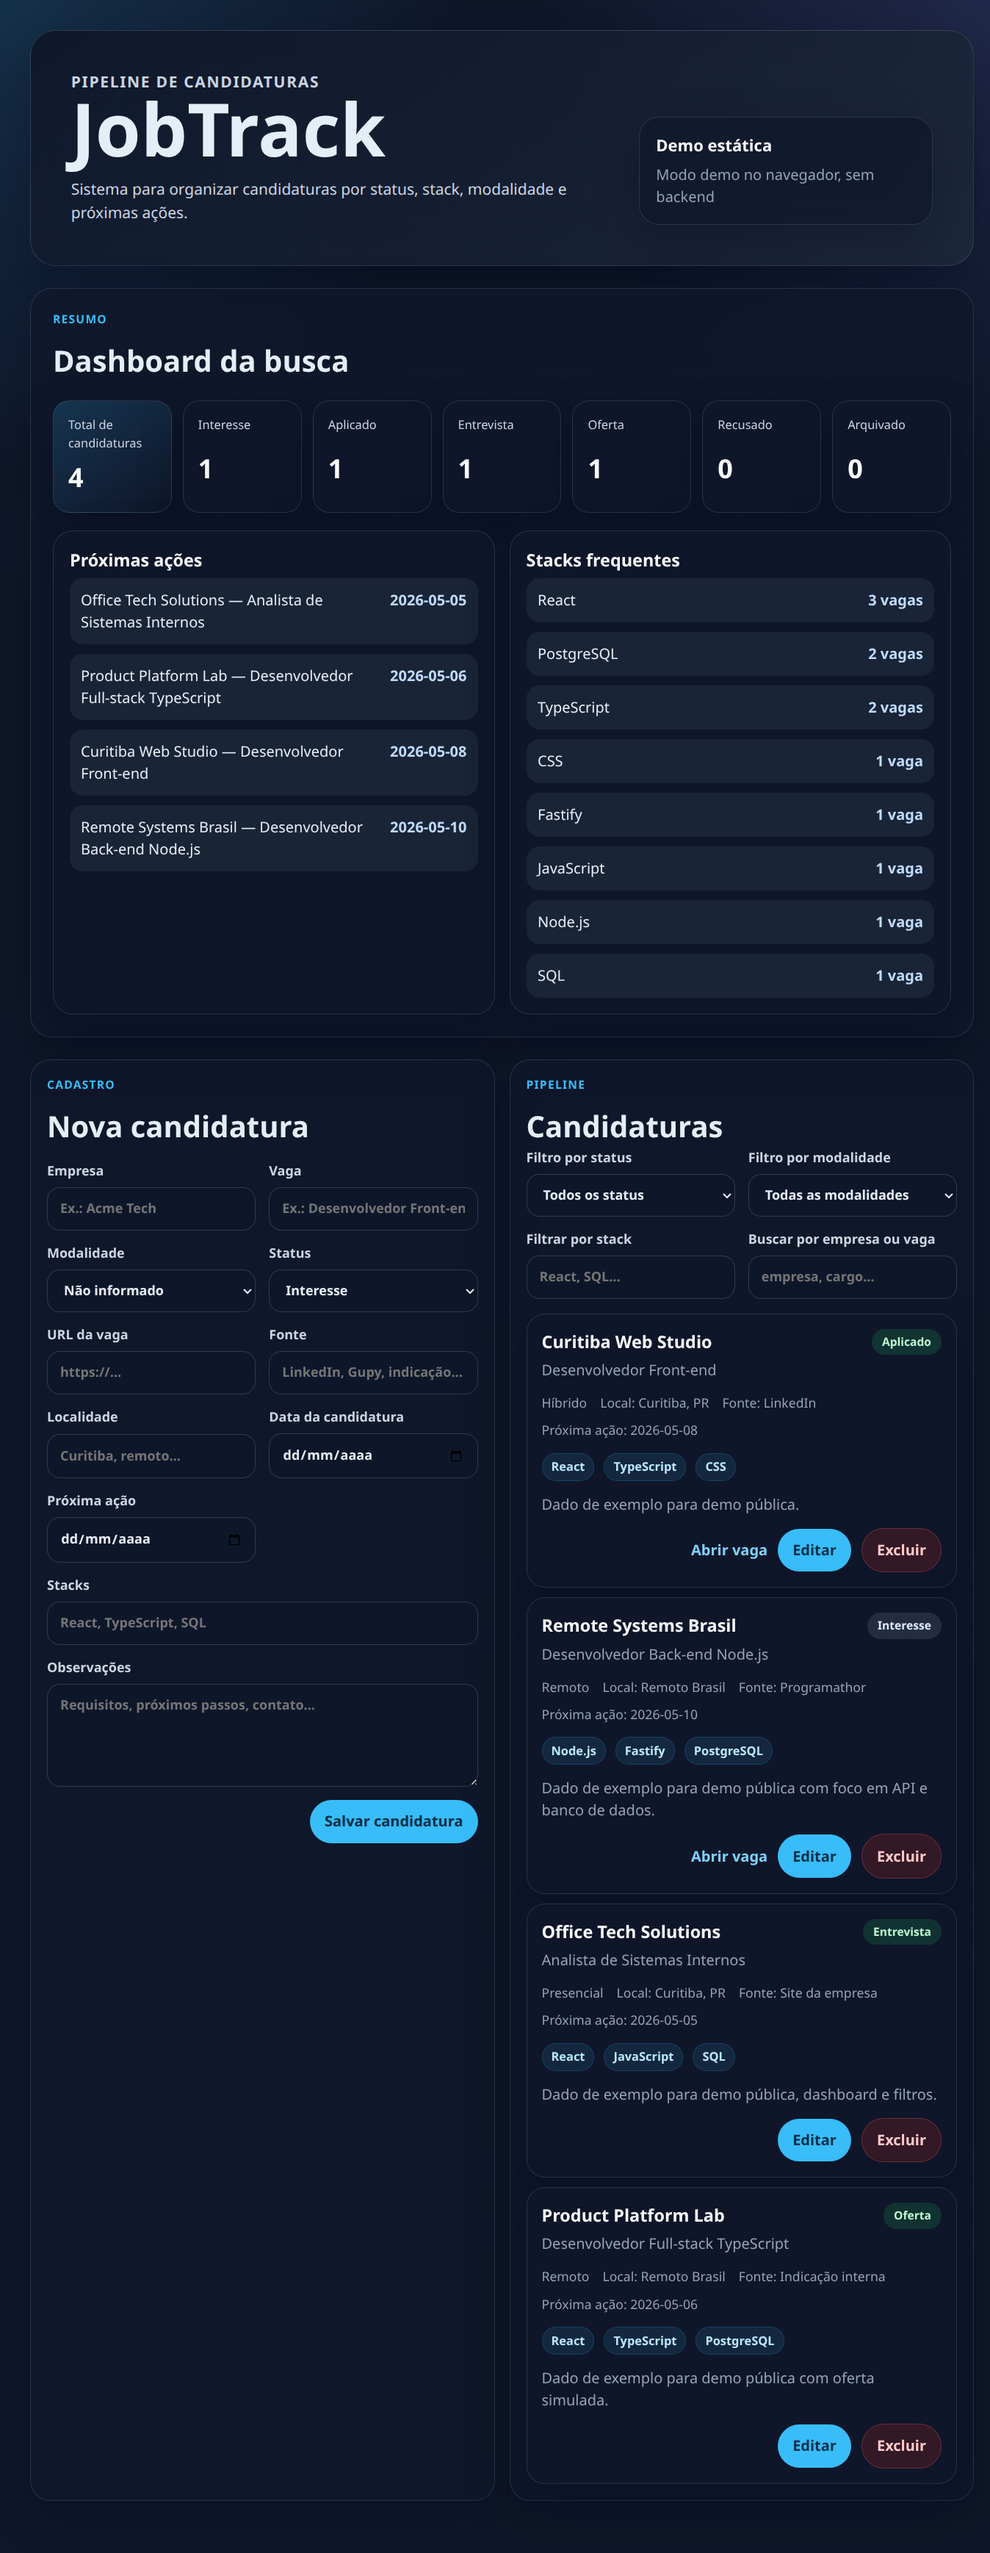
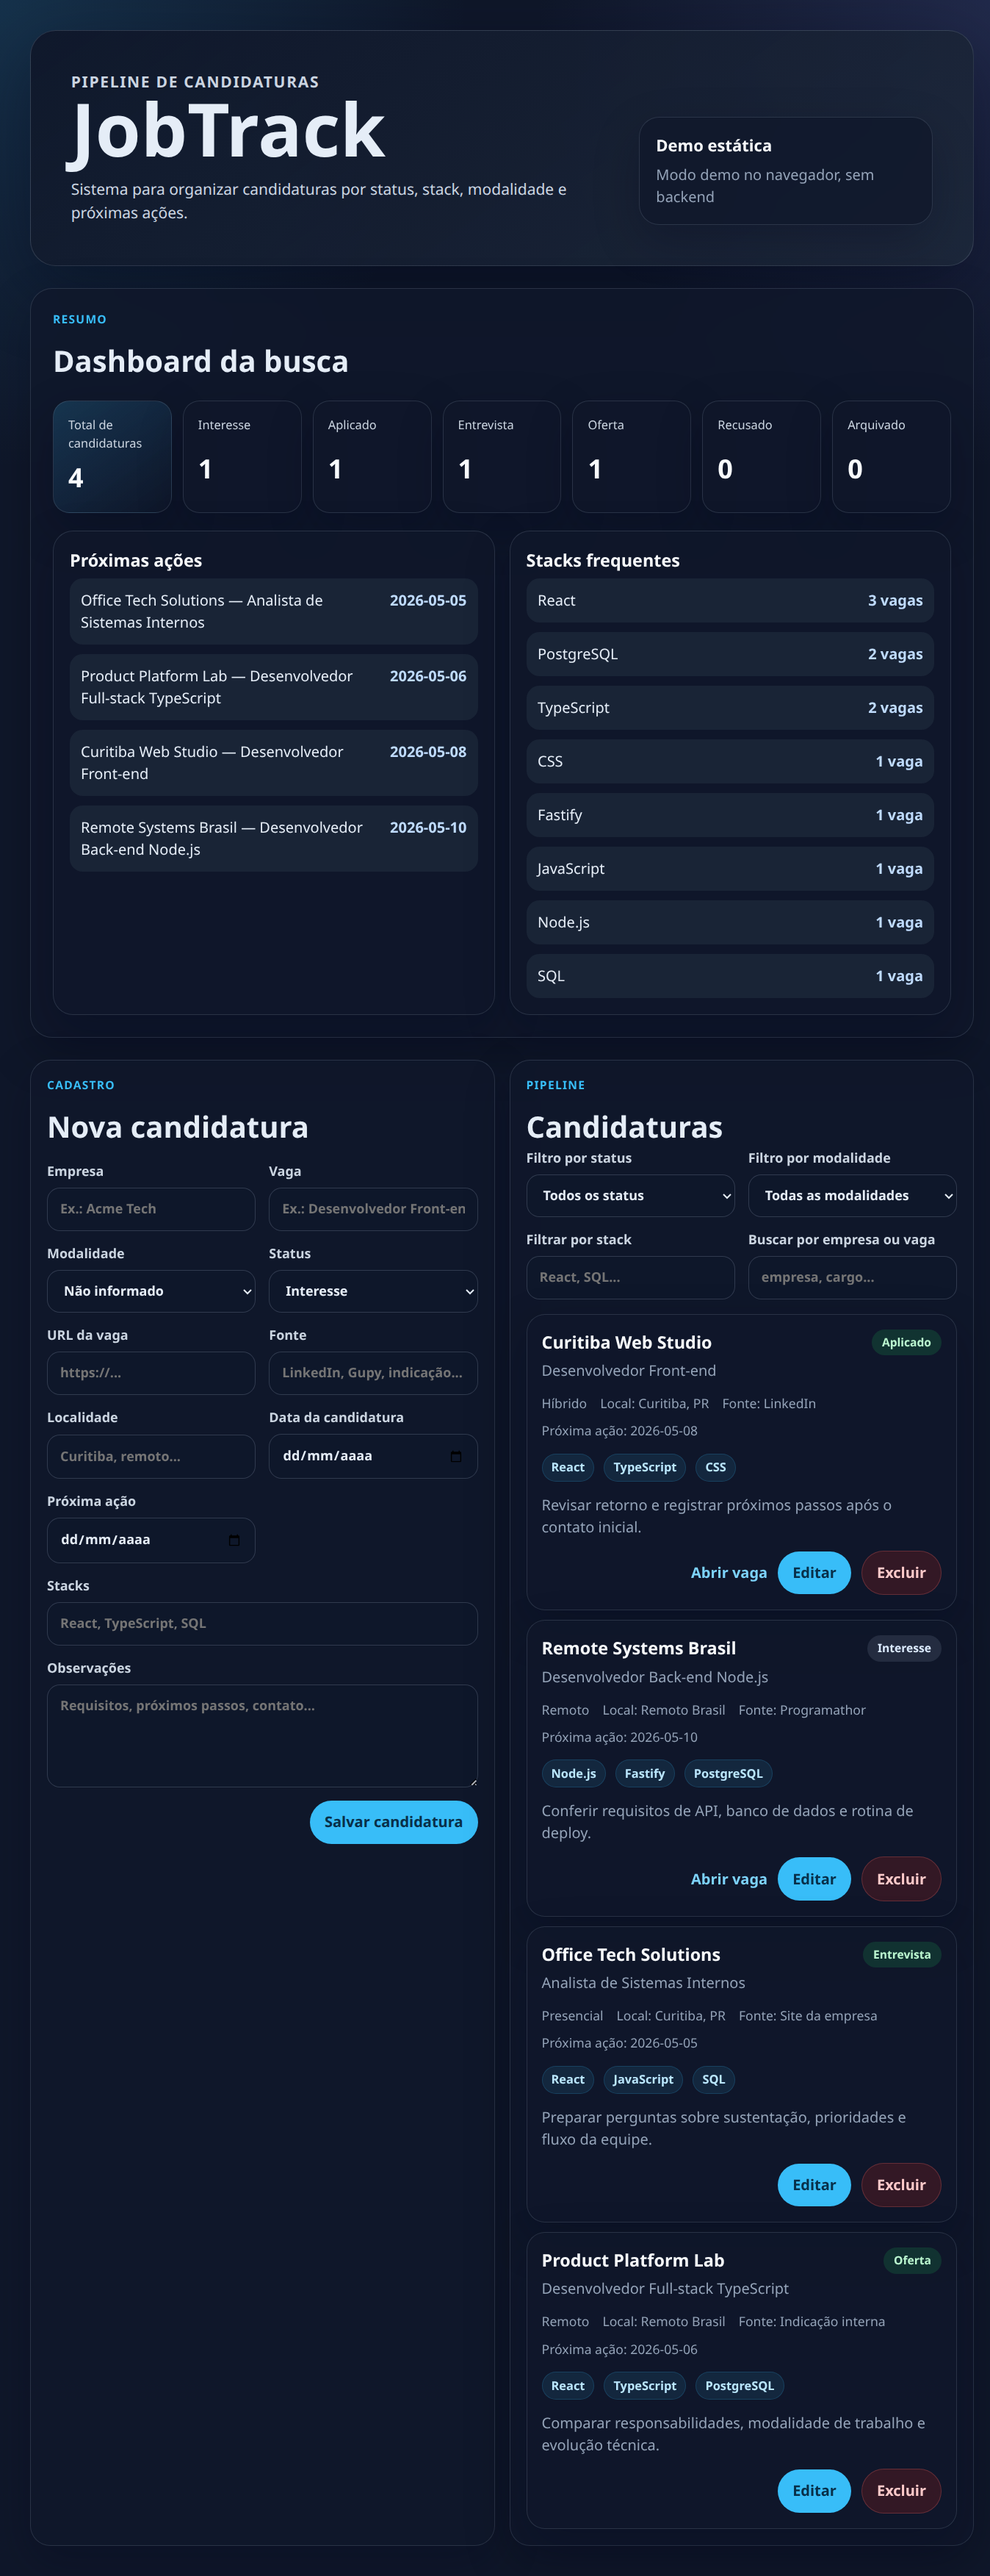
docs: polish recruiter-facing project details

diff --git a/apps/web/src/api/demoClient.ts b/apps/web/src/api/demoClient.ts
@@ -23,7 +23,7 @@ const demoApplications: JobApplication[] = [
     dateApplied: '2026-05-01',
     nextActionDate: '2026-05-08',
     stacks: ['React', 'TypeScript', 'CSS'],
-    notes: 'Dado de exemplo para demo pública.',
+    notes: 'Revisar retorno e registrar próximos passos após o contato inicial.',
     createdAt: '2026-05-01T12:00:00.000Z',
     updatedAt: '2026-05-01T12:00:00.000Z',
   },
@@ -38,7 +38,7 @@ const demoApplications: JobApplication[] = [
     status: 'interested',
     nextActionDate: '2026-05-10',
     stacks: ['Node.js', 'Fastify', 'PostgreSQL'],
-    notes: 'Dado de exemplo para demo pública com foco em API e banco de dados.',
+    notes: 'Conferir requisitos de API, banco de dados e rotina de deploy.',
     createdAt: '2026-05-02T12:00:00.000Z',
     updatedAt: '2026-05-02T12:00:00.000Z',
   },
@@ -53,7 +53,7 @@ const demoApplications: JobApplication[] = [
     dateApplied: '2026-04-28',
     nextActionDate: '2026-05-05',
     stacks: ['React', 'JavaScript', 'SQL'],
-    notes: 'Dado de exemplo para demo pública, dashboard e filtros.',
+    notes: 'Preparar perguntas sobre sustentação, prioridades e fluxo da equipe.',
     createdAt: '2026-04-28T12:00:00.000Z',
     updatedAt: '2026-05-03T12:00:00.000Z',
   },
@@ -68,7 +68,7 @@ const demoApplications: JobApplication[] = [
     dateApplied: '2026-04-22',
     nextActionDate: '2026-05-06',
     stacks: ['React', 'TypeScript', 'PostgreSQL'],
-    notes: 'Dado de exemplo para demo pública com oferta simulada.',
+    notes: 'Comparar responsabilidades, modalidade de trabalho e evolução técnica.',
     createdAt: '2026-04-22T12:00:00.000Z',
     updatedAt: '2026-05-04T12:00:00.000Z',
   },

diff --git a/apps/web/src/api/demoClient.test.ts b/apps/web/src/api/demoClient.test.ts
@@ -4,14 +4,16 @@ import { createDemoJobTrackApiClient } from './demoClient';
 import { emptyApplicationFilters } from '../features/applications/applicationFilters';
 
 describe('createDemoJobTrackApiClient', () => {
-  it('starts with fictitious applications and a computed dashboard summary', async () => {
+  it('starts with demo applications and a computed dashboard summary', async () => {
     const client = createDemoJobTrackApiClient();
 
     const applications = await client.listApplications(emptyApplicationFilters);
     const summary = await client.getDashboardSummary();
 
     expect(applications).toHaveLength(4);
-    expect(applications.every((application) => application.notes?.includes('Dado de exemplo'))).toBe(true);
+    expect(applications.every((application) => application.notes !== undefined)).toBe(true);
+    expect(applications.every((application) => !application.notes?.includes('Dado de exemplo'))).toBe(true);
+    expect(applications.some((application) => application.notes?.includes('Revisar retorno'))).toBe(true);
     expect(summary.total).toBe(4);
     expect(summary.statusCounts.applied).toBeGreaterThan(0);
     expect(summary.frequentStacks[0]?.stack).toBe('React');
@@ -41,7 +43,7 @@ describe('createDemoJobTrackApiClient', () => {
       status: 'interested',
       stacks: ['React', 'Node.js'],
       nextActionDate: '2026-05-12',
-      notes: 'Dado de exemplo criado durante a demo.',
+      notes: 'Confirmar detalhes da conversa técnica.',
     });
     const updated = await client.updateApplication(created.id, { status: 'interview' });
     await client.deleteApplication(updated.id);

diff --git a/apps/api/prisma/seed.ts b/apps/api/prisma/seed.ts
@@ -32,7 +32,7 @@ async function main() {
         dateApplied: toDate('2026-05-01'),
         nextActionDate: toDate('2026-05-08'),
         stacks: ['React', 'TypeScript', 'CSS'],
-        notes: 'Dado de exemplo para demo pública.',
+        notes: 'Revisar retorno e registrar próximos passos após o contato inicial.',
       },
       {
         company: 'Remote Systems Brasil',
@@ -44,7 +44,7 @@ async function main() {
         status: 'interested',
         nextActionDate: toDate('2026-05-10'),
         stacks: ['Node.js', 'Fastify', 'PostgreSQL'],
-        notes: 'Registro de exemplo com foco em API e banco de dados.',
+        notes: 'Conferir requisitos de API, banco de dados e rotina de deploy.',
       },
       {
         company: 'Office Tech Solutions',
@@ -56,7 +56,7 @@ async function main() {
         dateApplied: toDate('2026-04-28'),
         nextActionDate: toDate('2026-05-05'),
         stacks: ['JavaScript', 'SQL'],
-        notes: 'Dado de exemplo para testar dashboard e filtros.',
+        notes: 'Preparar perguntas sobre sustentação, prioridades e fluxo da equipe.',
       },
     ],
   });

diff --git a/README.md b/README.md
@@ -103,7 +103,11 @@ Payloads de criação e edição são validados com Zod. `DELETE` remove a candi
 
 ## Validação
 
+Para rodar a validação completa, crie o `.env` local a partir do exemplo e suba o PostgreSQL antes dos testes de integração:
+
 ```bash
+test -f .env || cp .env.example .env
+npm run db:up
 npm run db:generate
 npm run db:deploy -w apps/api
 npm run typecheck
@@ -118,3 +122,7 @@ npm run build
 - Melhorar filtros salvos e ordenação.
 - Avaliar autenticação para uso privado.
 - Avaliar visualização Kanban sem complicar o fluxo principal.
+
+## Licença
+
+MIT. Veja [LICENSE](LICENSE).
